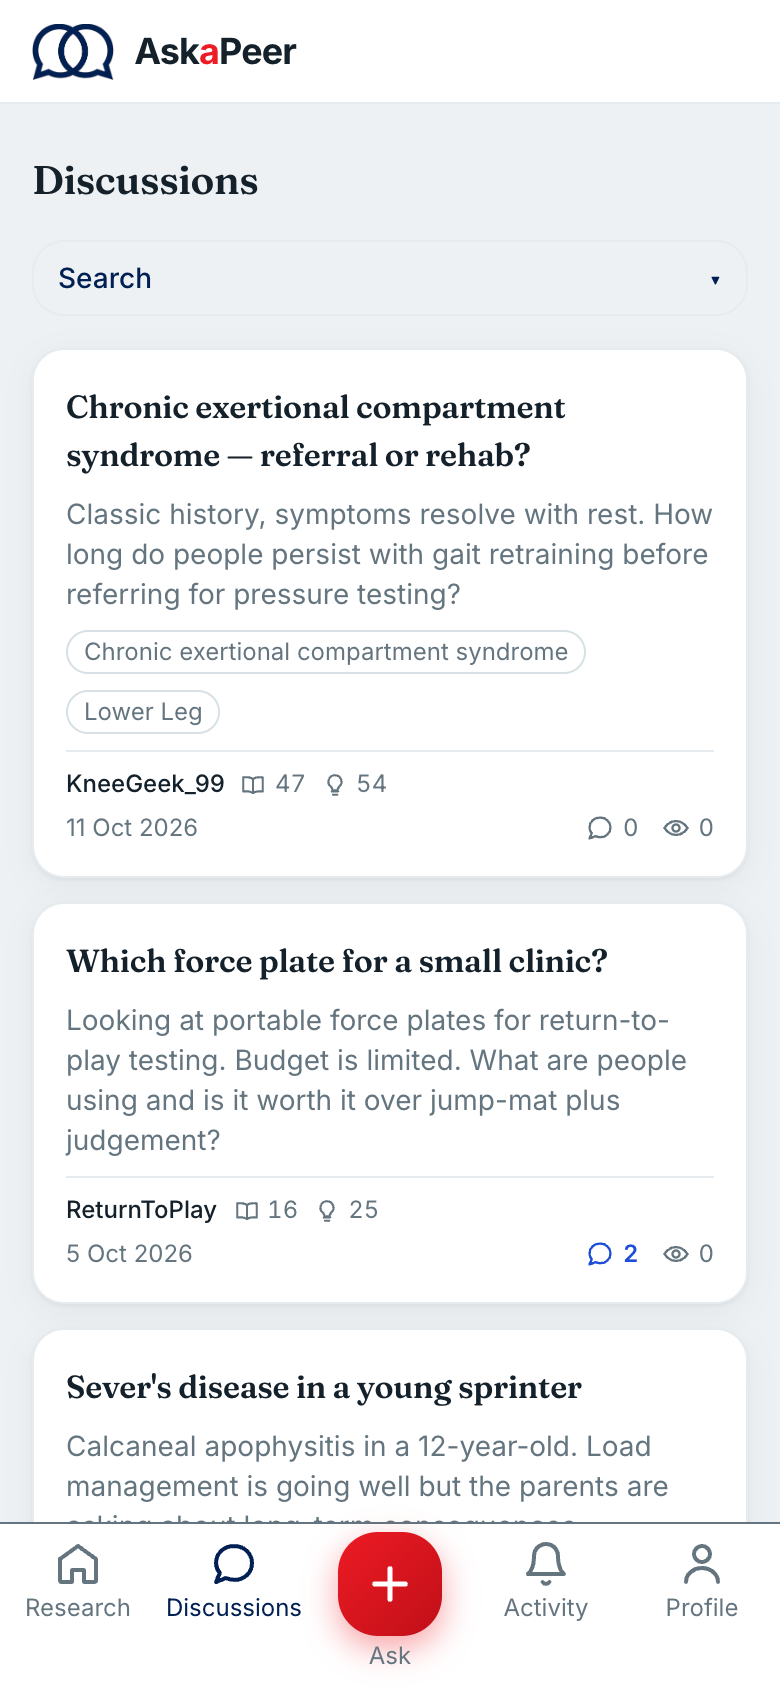
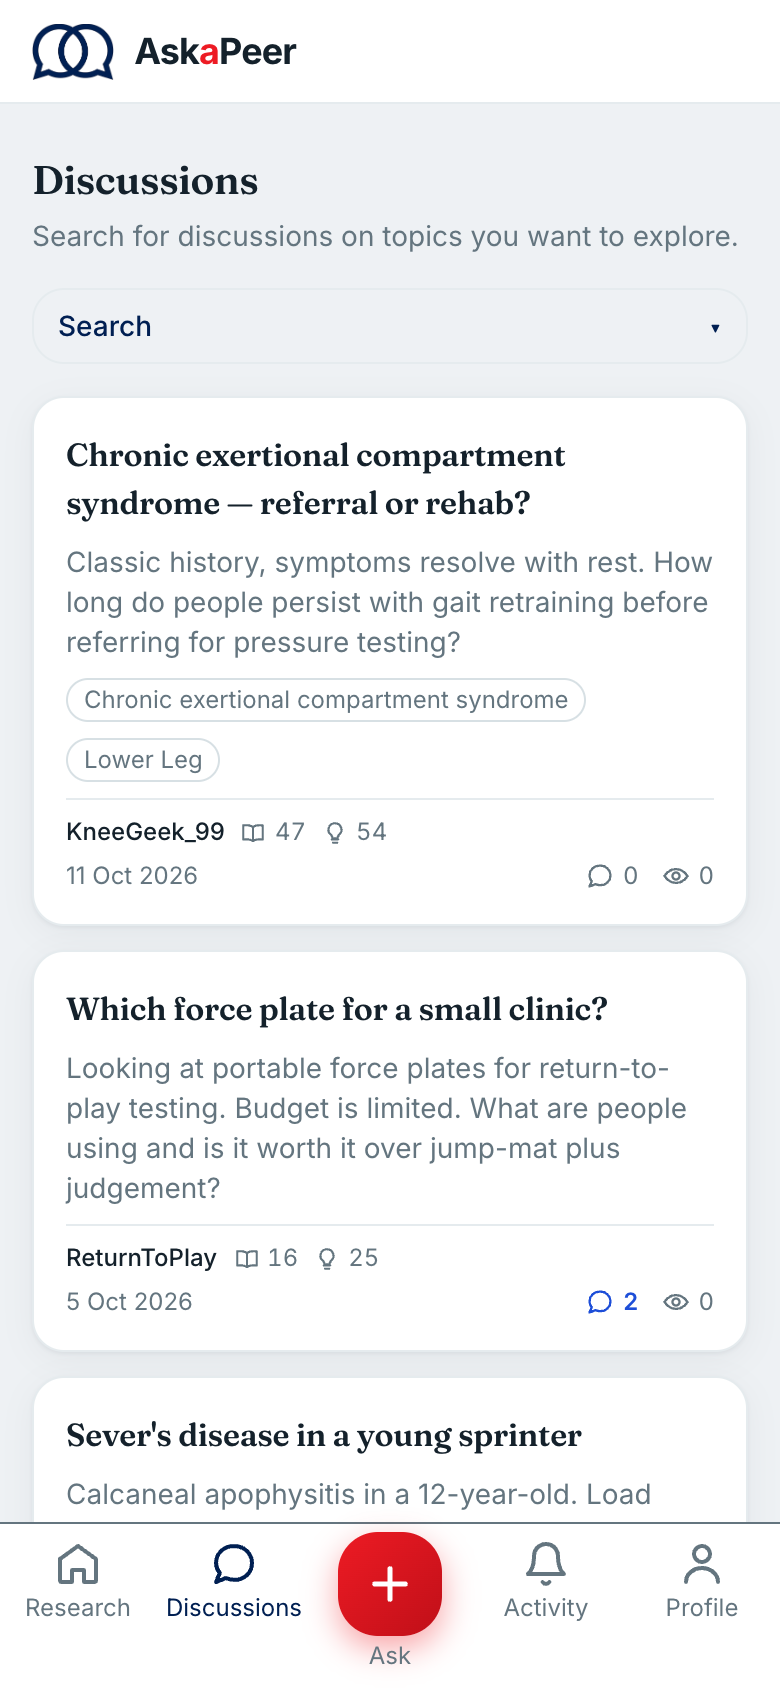
feat(discussions): say what the page is for above the Search panel, as on My Research (#209)

Changed region(s): [[0.0308, 0.1232, 0.9538, 0.8934], [0.6769, 0.1232, 0.9231, 0.154], [0.4923, 0.1232, 0.6462, 0.154]]

diff --git a/apps/web/src/app/(app)/discussions/page.tsx b/apps/web/src/app/(app)/discussions/page.tsx
@@ -55,7 +55,12 @@ export default async function DiscussionsPage({
 
   return (
     <main className="flex flex-col gap-4 px-4 py-6">
-      <h1 className="text-xl font-semibold">{t('heading')}</h1>
+      <div className="flex flex-col" style={{ gap: 'var(--space-1)' }}>
+        <h1 className="text-xl font-semibold">{t('heading')}</h1>
+        <p className="text-sm" style={{ color: 'var(--color-muted)' }}>
+          {t('intro')}
+        </p>
+      </div>
 
       {/* Keyed so that tapping the tab, which drops the criteria, gets an empty panel: the
           page's server render changes, but client state would otherwise survive it. A search
